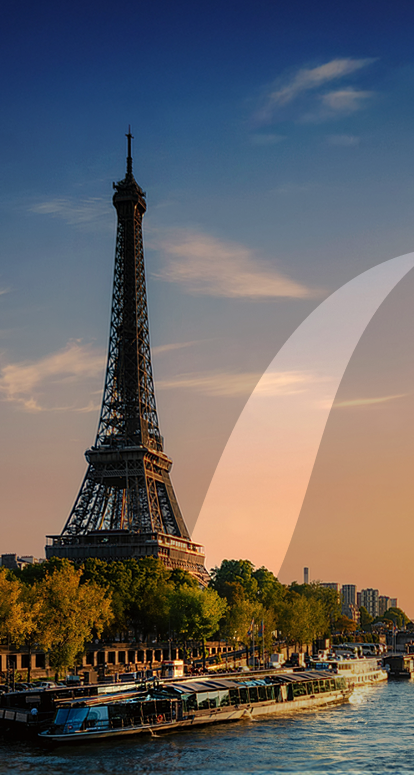
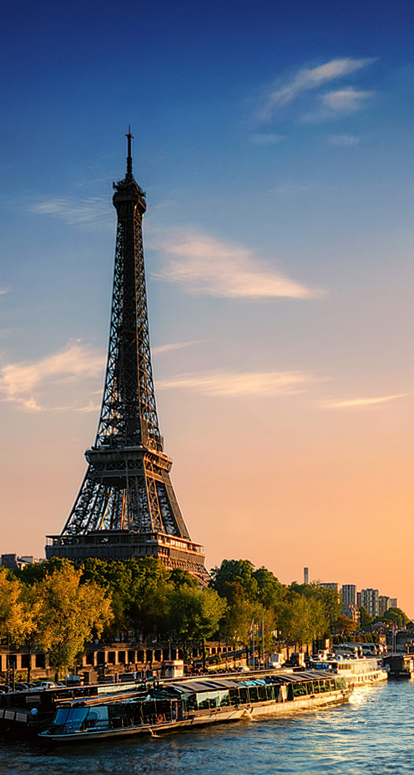
Changes deployed..

diff --git a/src/components/sections/HeroSection.tsx b/src/components/sections/HeroSection.tsx
@@ -19,26 +19,31 @@ import Black_Tint_Mobile from "../../../public/images/black_tint_mobile.png"
 const SwiperImages = [
   {
     backgroundImage: Hero_background_1,
+    backgroundImageMobile: "/images/bg-1-mobile.png",
     heading: "Wonder Isn't a Place. It's How We Travel.",
     subheading: "From timeless landscapes to tailored details, we design journeys that stay with you."
   },
   {
     backgroundImage: Hero_background_2,
+    backgroundImageMobile: "/images/bg-2-mobile.png",
     heading: "Where beauty meets curiosity and every destination tells a story.",
     subheading: "From iconic wonders to hidden corners, every journey with TravelYollo is crafted to feel uniquely yours."
   },
   {
     backgroundImage: Hero_background_3,
+    backgroundImageMobile: "/images/bg-3-mobile.png",
     heading: "From timeless wonders to wild horizons, every journey begins with inspiration.",
     subheading: "Whether it’s heritage, nature, or city lights, discover the world through your own lens."
   },
   {
     backgroundImage: Hero_background_4,
+    backgroundImageMobile: "/images/bg-4-mobile.png",
     heading: "Discover the world’s icons with new eyes and write stories only travel can tell.",
     subheading: "At TravelYollo, we create journeys that feel effortless, meaningful, and entirely personal."
   },
   {
     backgroundImage: Hero_background_5,
+    backgroundImageMobile: "/images/bg-5-mobile.png",
     heading: "See the world differently and let every moment unfold in its own magic.",
     subheading: "From sunrise safaris to sunsets by the beach discover travel that moves you."
   },
@@ -52,6 +57,15 @@ const HeroSection = () => {
   const [previousIndex, setPreviousIndex] = useState(SwiperImages.length - 1)
   const [fade, setFade] = useState(true)
   const transitionDuration = 1000 // keep consistent
+
+  const [isMobile, setIsMobile] = useState(false);
+
+  useEffect(() => {
+    const handleResize = () => setIsMobile(window.innerWidth < 640);
+    handleResize();
+    window.addEventListener("resize", handleResize);
+    return () => window.removeEventListener("resize", handleResize);
+  }, []);
 
   useEffect(() => {
     const interval = setInterval(() => {
@@ -82,7 +96,9 @@ const HeroSection = () => {
         <div
           className="absolute inset-0 w-full h-full bg-cover bg-no-repeat"
           style={{
-            backgroundImage: `url(${SwiperImages[previousIndex].backgroundImage.src})`,
+            backgroundImage: `url(${isMobile
+              ? SwiperImages[previousIndex].backgroundImageMobile
+              : SwiperImages[previousIndex].backgroundImage.src})`,
             backgroundPosition:
               previousIndex === 5 || previousIndex === 6 ? "80% center" : "center",
             zIndex: 0,
@@ -96,10 +112,12 @@ const HeroSection = () => {
             className="absolute inset-0 w-full h-full transition-opacity duration-1000 ease-in-out bg-cover bg-no-repeat"
             style={{
               opacity: index === activeIndex ? 1 : 0,
-              backgroundImage: `url(${item.backgroundImage.src})`,
+              backgroundImage: `url(${isMobile
+                ? item.backgroundImageMobile
+                : item.backgroundImage.src})`,
               backgroundPosition:
-                index === 5 || index === 6 ? "80% center" : "center",
-              zIndex: index === activeIndex ? 5 : 1,
+        index === 5 || index === 6 ? "80% center" : "center",
+        zIndex: index === activeIndex ? 5 : 1,
             }}
           />
         ))}
@@ -125,9 +143,8 @@ const HeroSection = () => {
         {/* Content (All your original styles preserved exactly) */}
         <div className="relative z-10 flex flex-col justify-between md:justify-center items-center gap-y-[66px] px-4 pt-[67px] md:pt-0 pb-[42px] md:pb-0 h-full text-center">
           <div
-            className={`flex flex-col justify-center items-center text-center transition-all duration-1000 ease-in-out ${
-              fade ? "opacity-100 translate-y-0" : "opacity-0 translate-y-3"
-            }`}
+            className={`flex flex-col justify-center items-center text-center transition-all duration-1000 ease-in-out ${fade ? "opacity-100 translate-y-0" : "opacity-0 translate-y-3"
+              }`}
           >
             <h1 className="font-noto-serif font-light italic text-[34px] sm:text-[40px] md:text-[45px] lg:text-[52px] capitalize leading-[42px] sm:leading-[45px] md:leading-[55px] lg:leading-[65px]">
               {SwiperImages[activeIndex].heading}

diff --git a/src/components/common/Footer.tsx b/src/components/common/Footer.tsx
@@ -14,6 +14,9 @@ const Footer = () => {
         e.preventDefault();
     }
 
+    // get latest year
+    const year: number = new Date().getFullYear();
+
     return (
         <section className='w-full  bg-[#312E29] pt-[44px] sm:pt-[83px] pb-0 '>
             <div className='w-full max-w-[1440px] mx-auto px-4 md:px-6 lg:px-8 flex flex-col-reverse lg:flex-row justify-between gap-y-[35px]'>
@@ -71,7 +74,7 @@ const Footer = () => {
                                 <span className='text-[14px] sm:text-base text-[#C9C9C9] font-host-grotesk  hover:underline hover:text-white hover:font-medium transition-all ease-in-out duration-200 cursor-pointer'> 211 Hana Rd, Edison, NJ 08817, USA </span>
                             </Link>
                         </div>
-                        
+
                         {/*  Social Links for mobile */}
                         <div className='flex flex-row gap-x-4 mt-[40px] md:mt-[50px] justify-start items-center'>
                             <span>
@@ -165,8 +168,13 @@ const Footer = () => {
             <div className='hidden sm:block w-full mt-[60px]'>
                 <div className='max-w-[1440px] mx-auto px-4 md:px-6 lg:px-8'>
                     <hr className='w-full border-t border-[#4B4843]' />
-                    <div className='flex flex-row justify-center items-center py-[22px]'>
-                        <p className='text-[14px] text-[#C9C9C9] font-host-grotesk font-light'> Copyright © 2026 TravelYollo. All Rights Reserved.</p>
+                    <div className='flex flex-row justify-between items-center py-[22px]'>
+                        <p className='text-[14px] text-[#C9C9C9] font-host-grotesk font-light'>
+                            Copyright © {year} TravelYollo. All Rights Reserved.
+                        </p>
+                        <p className='text-[14px] text-[#C9C9C9] font-host-grotesk font-light'>
+                            Design and Developed by <span className='font-semibold'>ID8NXT</span>
+                        </p>
                     </div>
                 </div>
             </div>
@@ -174,8 +182,11 @@ const Footer = () => {
             {/* Footer banner - Mobile */}
             <div className='block sm:hidden w-full mt-[38px]'>
                 {/* <hr className='w-screen text-[#4B4843]' /> */}
-                <div className='w-screen bg-[#161616]'>
-                    <p className='w-full max-w-[1440px] mx-auto px-4 md:px-6 lg:px-8 text-[14px] py-[22px] text-[#C9C9C9] font-host-grotesk font-light'> Copyright © 2026 TravelYollo. All Rights Reserved.</p>
+                <div className='w-screen bg-[#161616] flex flex-col gap-1 justify-center text-center'>
+                    <p className='w-full max-w-[1440px] mx-auto px-4 md:px-6 lg:px-8 text-[14px] mt-[22px] text-[#C9C9C9] font-host-grotesk font-light'> Copyright © {year} TravelYollo. All Rights Reserved.</p>
+                    <p className='text-[14px] text-[#C9C9C9] font-host-grotesk font-light mb-[80px]'>
+                        Design and Developed by <span className='font-semibold'>ID8NXT</span>
+                    </p>
                 </div>
             </div>
         </section>

diff --git a/src/components/common/Header.tsx b/src/components/common/Header.tsx
@@ -37,8 +37,11 @@ export function Header({ className = '' }: HeaderProps): JSX.Element {
     { label: 'Contact Us', href: '/contact', active: pathname === '/contact' }
   ] as const;
 
+  const slugify = (title: string) =>
+    title.toLowerCase().replace(/[^a-z0-9]+/g, '-').replace(/(^-|-$)/g, '');
+
   return (
-    <header className={`sticky z-[999999] top-0 sm:top-16 w-full bg-header-1 ${className}`}>
+    <header className={`sticky z-[999999] top-0 sm:top-14 md:top-16 w-full bg-header-1 ${className}`}>
       <div className="w-full max-w-[1440px] mx-auto px-4 sm:px-6 lg:px-8">
         <div className="flex justify-between sm:justify-center items-center py-4 sm:py-6 gap-2">
           {/* Logo */}
@@ -85,8 +88,8 @@ export function Header({ className = '' }: HeaderProps): JSX.Element {
                 onMouseEnter={() => setCategoriesOpen(true)}
                 onMouseLeave={() => setCategoriesOpen(false)}
               >
-                <Link
-                  href="/experiences"
+                <button
+                  type="button"
                   className={`
                     text-base lg:text-[17px] 2xl:text-[20px]
                     font-host-grotesk font-normal
@@ -108,7 +111,7 @@ export function Header({ className = '' }: HeaderProps): JSX.Element {
                   >
                     <path strokeLinecap="round" strokeLinejoin="round" strokeWidth={2} d="M19 9l-7 7-7-7" />
                   </svg>
-                </Link>
+                </button>
 
                 {categoriesOpen && (
                   <div className="absolute top-full left-0 pt-2 z-50">
@@ -119,7 +122,7 @@ export function Header({ className = '' }: HeaderProps): JSX.Element {
                           type="button"
                           onClick={() => {
                             setCategoriesOpen(false);
-                            router.push('/experiences');
+                            router.push(`/experiences/${slugify(category.title)}`);
                           }}
                           className="block w-full text-left px-4 py-2 text-base font-host-grotesk text-[#312E29] hover:bg-gray-100 hover:text-[#6C3B3F] transition-colors"
                           tabIndex={0}
@@ -258,7 +261,7 @@ export function Header({ className = '' }: HeaderProps): JSX.Element {
                         onClick={() => {
                           setMenuOpen(false);
                           setCategoriesOpen(false);
-                          router.push('/experiences');
+                          router.push(`/experiences/${slugify(category.title)}`);
                         }}
                         className="text-base font-host-grotesk text-global-5 hover:text-header-1 px-3 py-2 rounded-sm hover:bg-global-5/5 transition-colors text-left w-full"
                         tabIndex={0}

diff --git a/src/app/experiences/[[...slug]]/page.tsx b/src/app/experiences/[[...slug]]/page.tsx
@@ -2,11 +2,11 @@
 
 import Hero from '@/components/sections/Experiences/Hero'
 import React, { useEffect, useState } from 'react'
-import WhatIsIncluded from '../../components/sections/Experiences/WhatIsIncluded'
-import Testimonials from '../../components/sections/Experiences/Testimonials'
+import WhatIsIncluded from '../../../components/sections/Experiences/WhatIsIncluded'
+import Testimonials from '../../../components/sections/Experiences/Testimonials'
 import BlogCard from '@/components/sections/Blog/BlogCard'
 import EnquiryForm from '@/components/sections/Experiences/EnquiryForm'
-import vector from "../../../public/images/img_vector.svg"
+import vector from "../../../../public/images/img_vector.svg"
 import Image from 'next/image'
 import ExperienceWrapper from '@/components/sections/Experiences/ExperienceWrapper'
 

diff --git a/src/components/common/BannerMobile.tsx b/src/components/common/BannerMobile.tsx
@@ -35,12 +35,14 @@ const BannerMobile = () => {
           <Link href="tel:9870066000" className="hover:cursor-pointer hover:underline">
             +1 561-941-4991
           </Link>
-          <p className="font-host-grotesk text-sm">until 8pm</p>
+          <p className="font-host-grotesk text-sm">
+            until 6pm
+          </p>
         </div>
       </div>
 
       <div className="w-[50%] h-[56px] flex justify-center items-center font-host-grotesk text-base font-normal bg-[#171C28] text-white cursor-pointer">
-        Request a quote
+        Request a Quote
       </div>
     </section>
   )

diff --git a/src/components/common/Banner.tsx b/src/components/common/Banner.tsx
@@ -28,7 +28,7 @@ const Banner = () => {
           {/* Center Section: Call and Quote Info */}
           <div className="flex flex-wrap justify-start sm:justify-center items-center text-center gap-3 sm:gap-4 font-host-grotesk">
             <p className="text-[12px] sm:text-[14px] lg:text-[18px] font-normal">
-              Call us today until 8pm
+              Call us today until 6pm
             </p>
 
             <div className="flex items-center gap-2 text-[12px] sm:text-[14px] lg:text-[18px] font-normal">

diff --git a/src/components/sections/BeyondItinerarySection.tsx b/src/components/sections/BeyondItinerarySection.tsx
@@ -214,7 +214,7 @@ const BeyondItinerarySection: React.FC = () => {
                         spaceBetween={0}
                         loop={true}
                         autoplay={{
-                            delay: 3000,
+                            delay: 1500,
                             disableOnInteraction: false,
                         }}
                         speed={1000}
